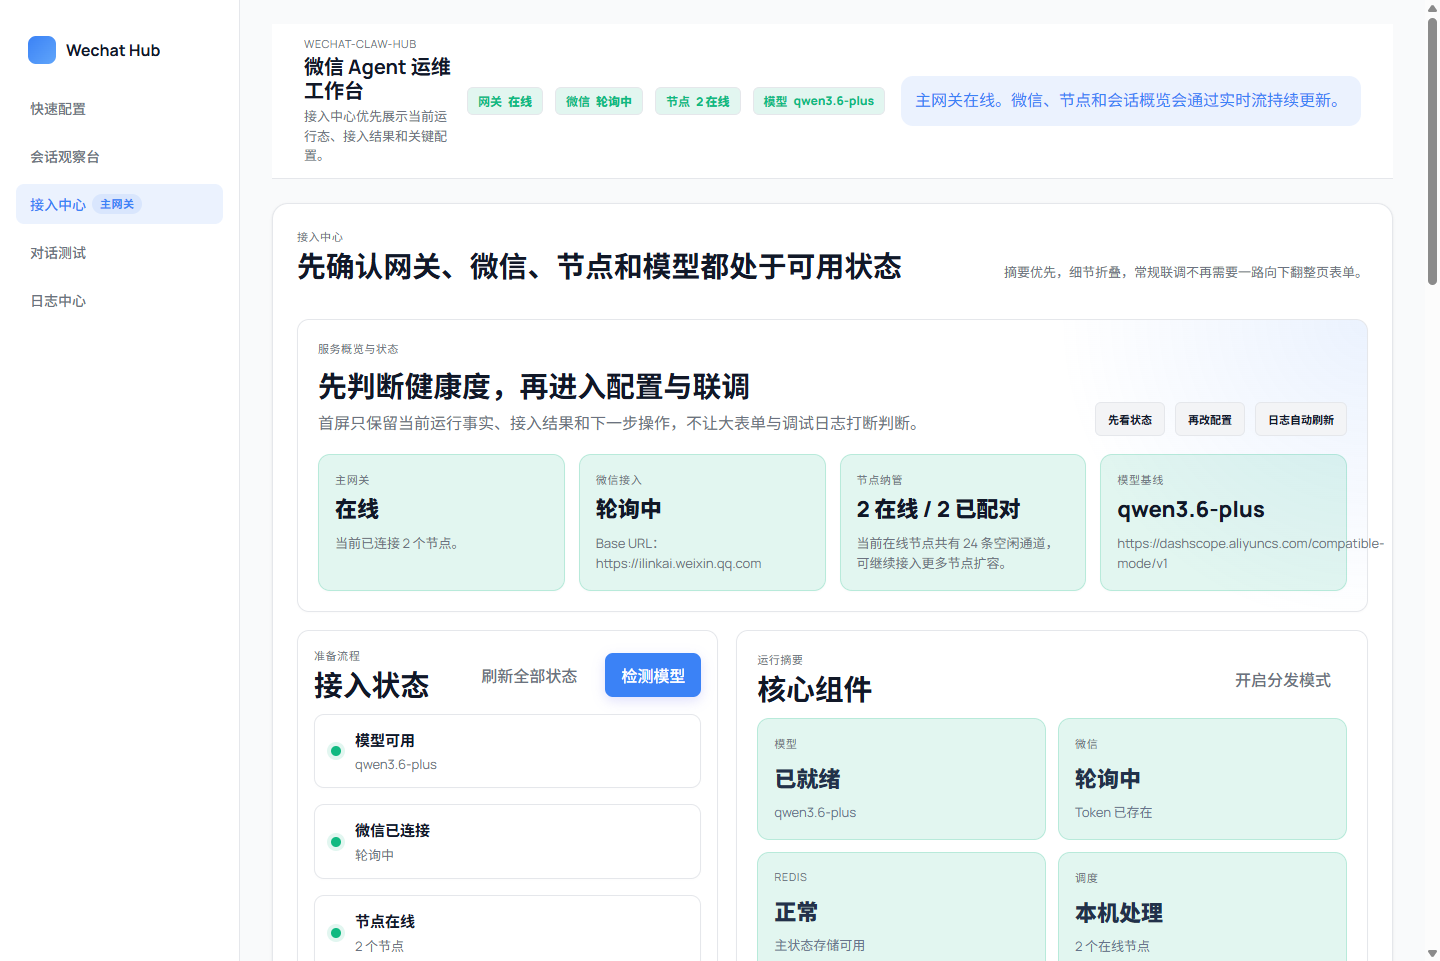
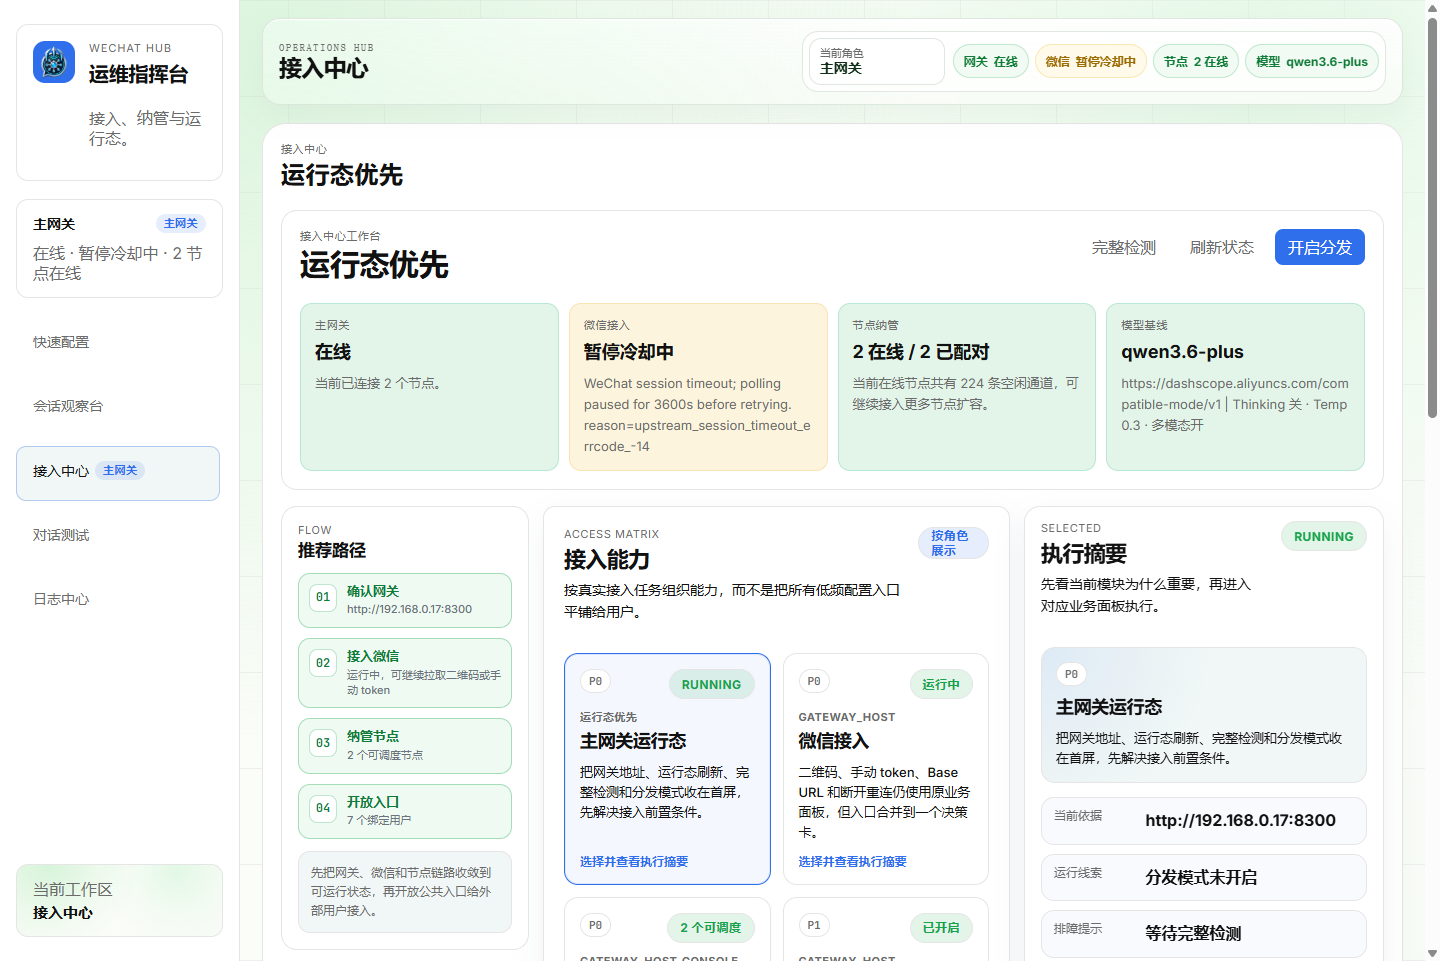
docs: refresh README UI screenshots

diff --git a/README.md b/README.md
@@ -53,7 +53,22 @@ WeChat Claw Hub 是一个面向微信 AI 接入场景的网关系统。它把微
 | 会话上下文隔离 | 支持 Redis 会话状态和 transcript |
 | 实时会话观察 | 支持 HTTP + WebSocket 更新 |
 
-分布式工作节点、跨机器调度、人工接管等高级能力不作为当前开源版的主要交付范围。README 中的快速开始默认按单机网关 + 控制台路径说明。
+README 中的快速开始默认按单机网关 + 控制台路径说明。
+
+## 开源版暂不支持什么
+
+以下能力不包含在当前开源 demo 分支中。如需这些能力、完整商业版授权或定制集成，请联系作者沟通：
+
+| 能力 | 开源版状态 |
+| --- | --- |
+| 分布式工作节点 | 暂不支持跨机器节点注册、发现、心跳、重装升级和远程启停 |
+| 跨机器调度 | 暂不支持多节点任务分发、容量评估、自动故障切换 |
+| 人工接管 / 坐席台 | 暂不支持完整人工介入、坐席分配、会话接管闭环 |
+| 桌面启动器 / EXE | 暂不提供一键安装包、自动升级器和 Windows 桌面运维入口 |
+| 多租户与权限体系 | 暂不支持团队、角色权限、审计日志和隔离配置 |
+| 商业化部署支持 | 暂不包含生产部署陪跑、私有化改造和 SLA 支持 |
+
+开源版适合作为微信 AI 网关、本地演示和二次开发起点；如果你的场景需要节点端、坐席台、自动升级或企业级部署支持，请联系作者获取对应版本或定制方案。
 
 ## 架构概览
 